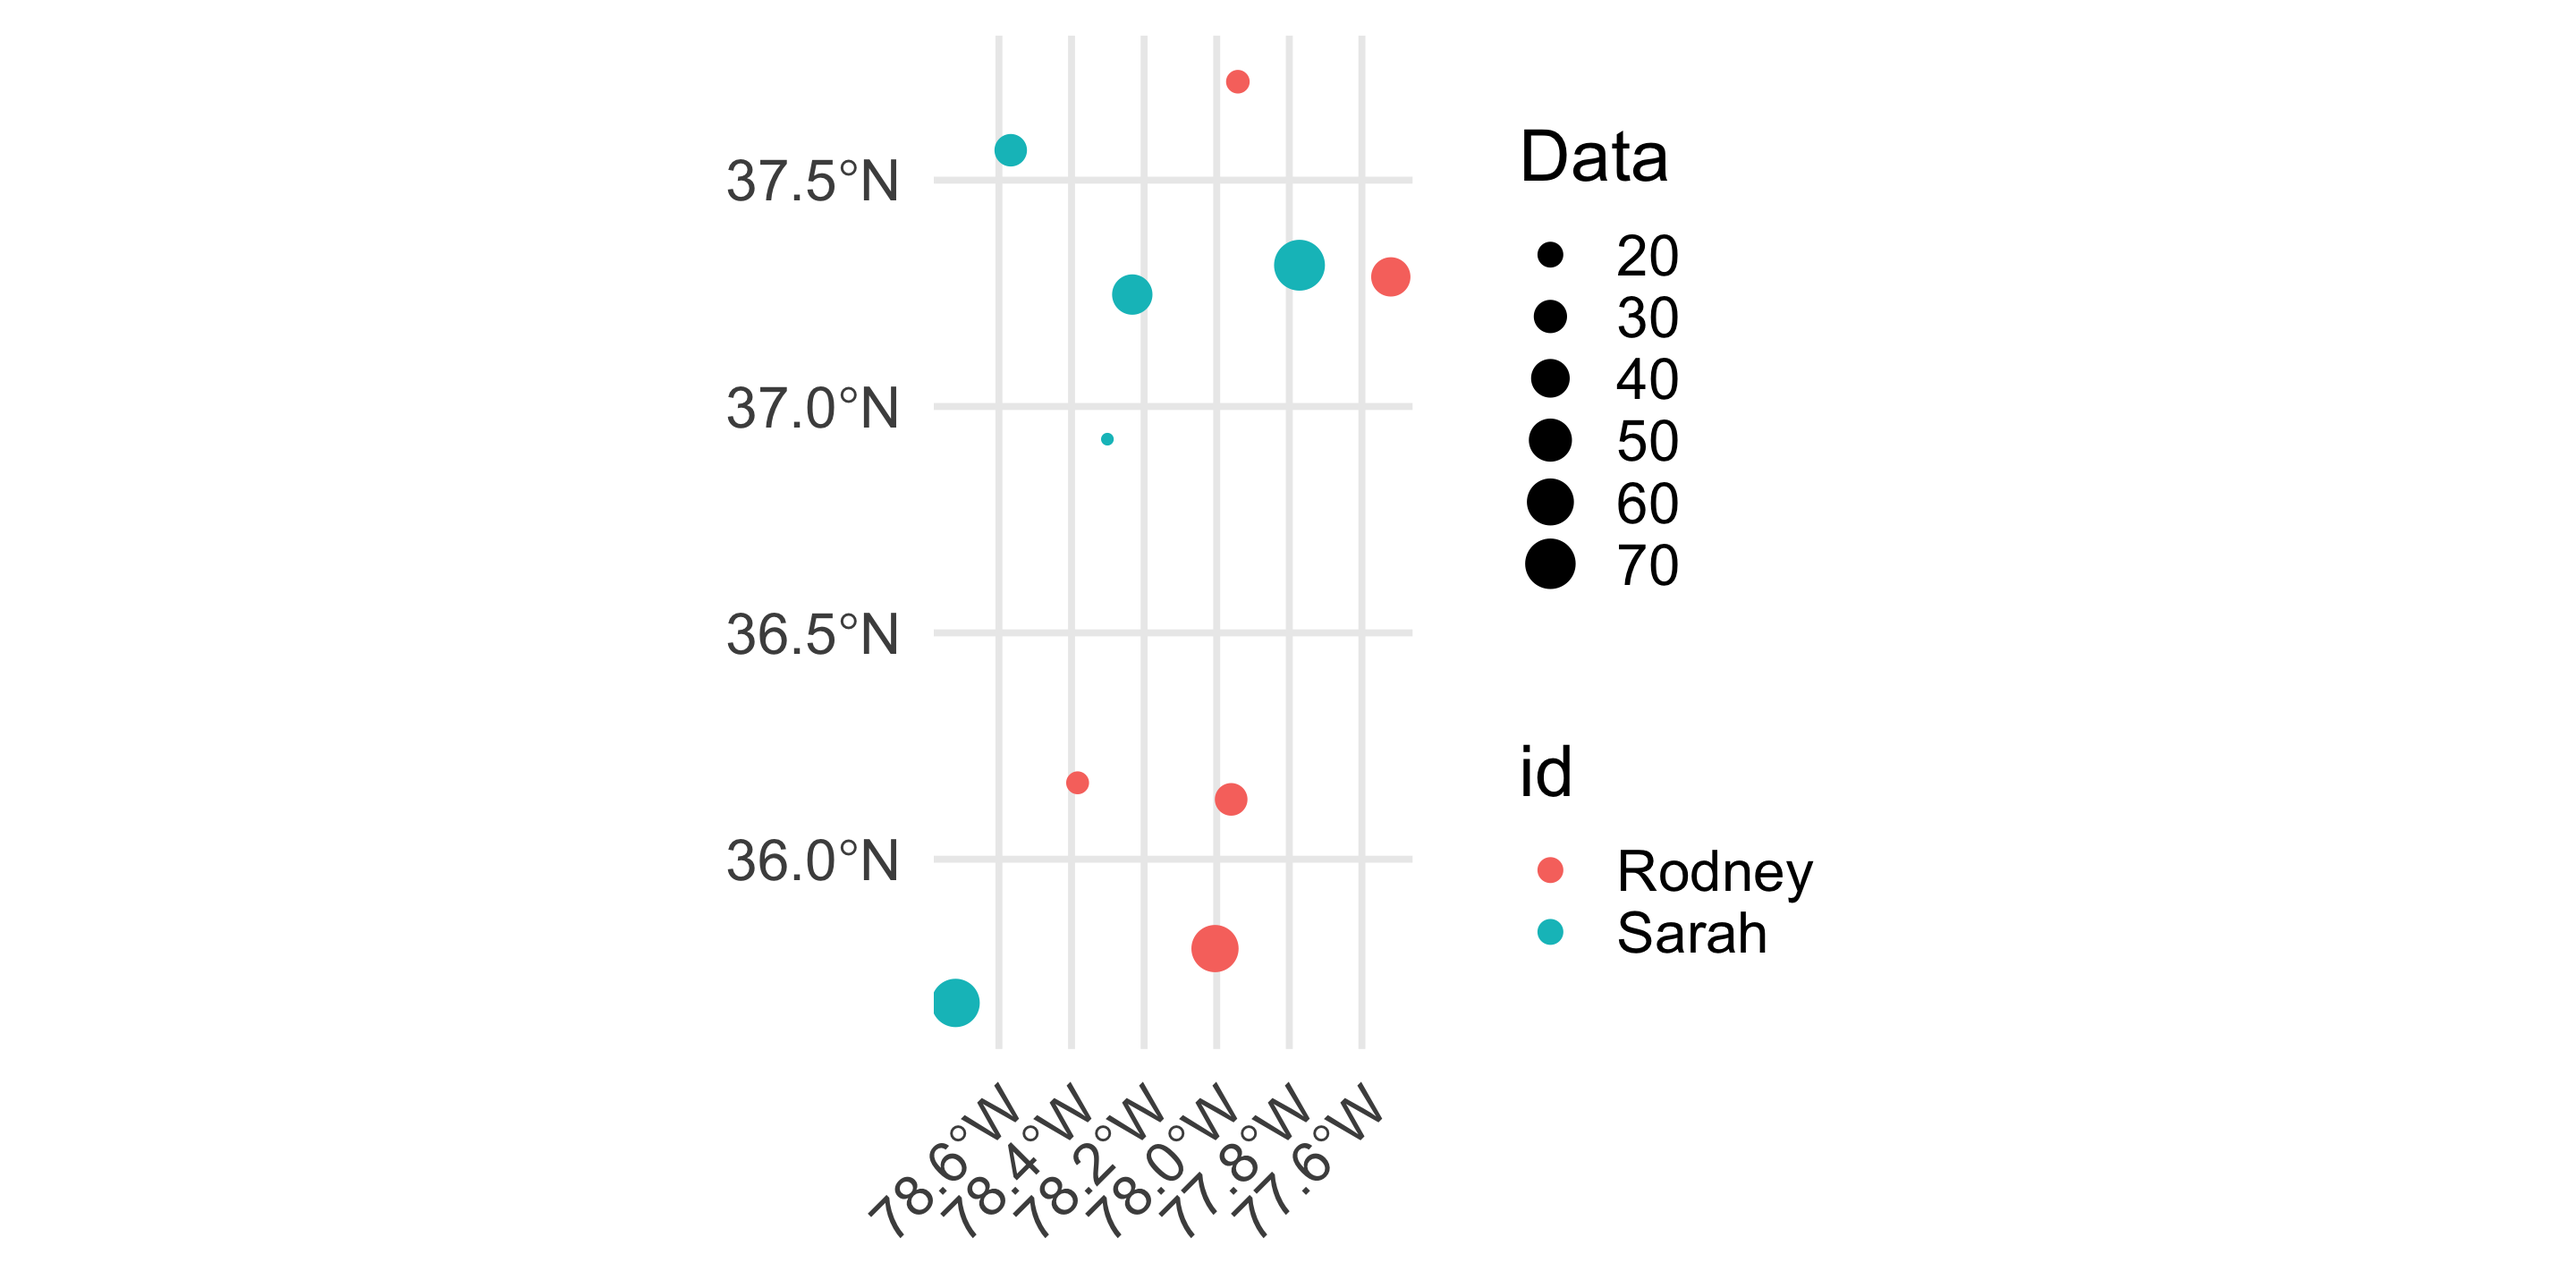
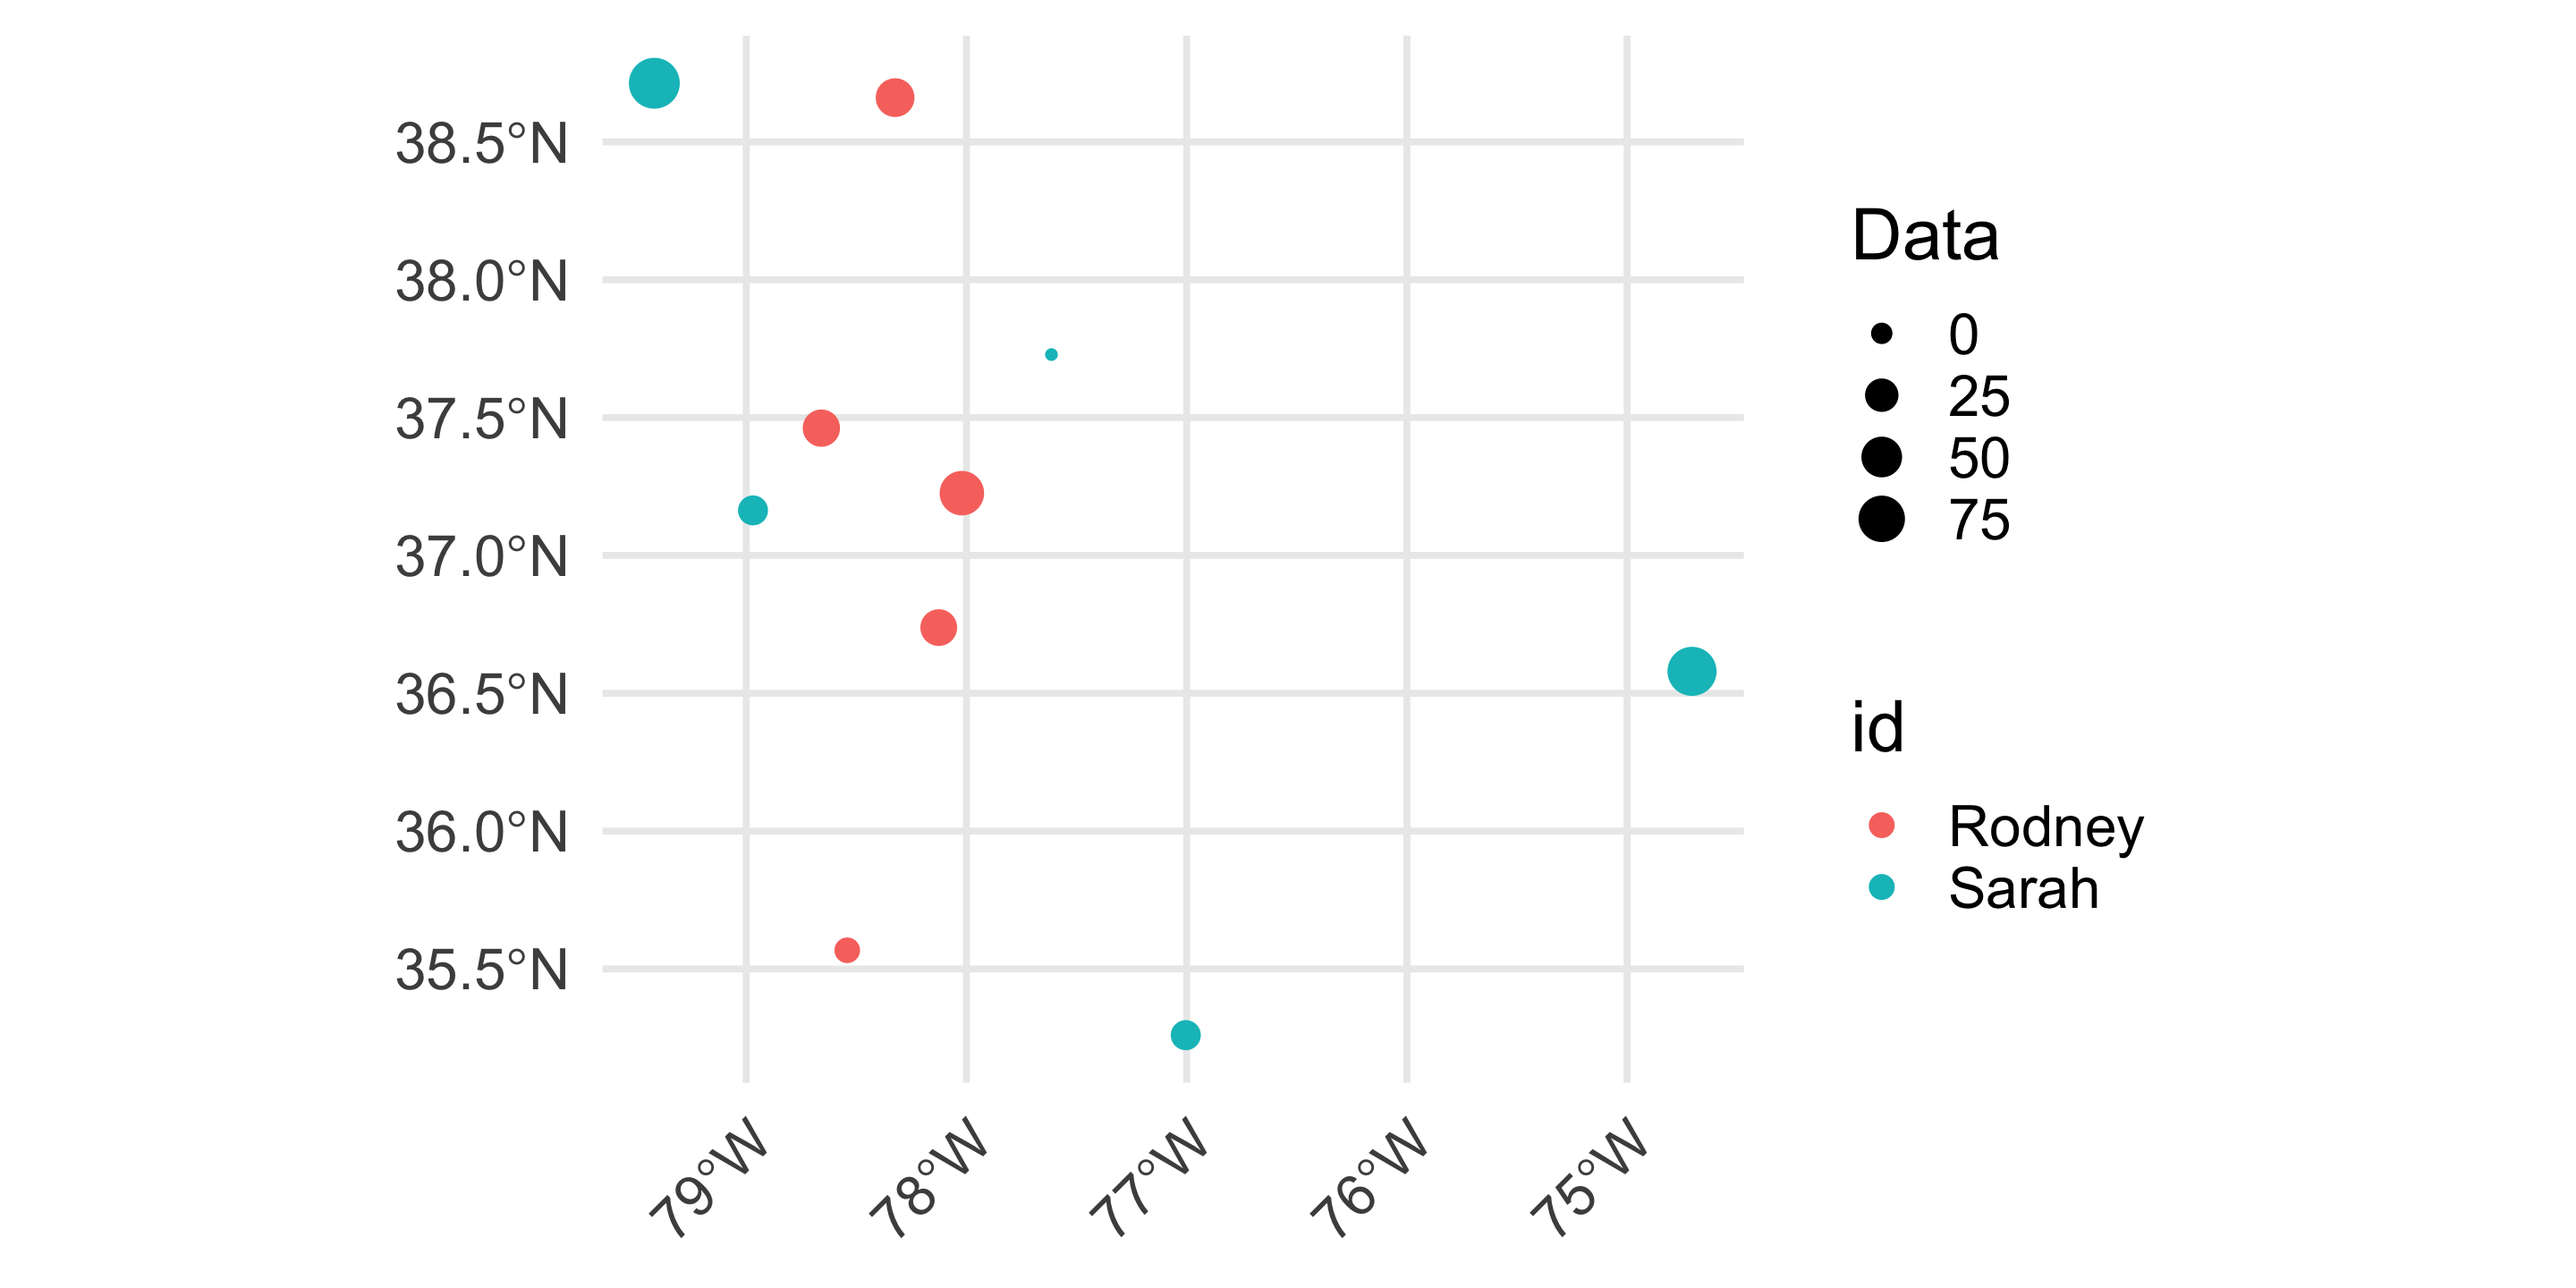
built for latest content

diff --git a/docs/slides.html b/docs/slides.html
@@ -233,17 +233,17 @@ Rodney Dyer, PhD
 <span id="cb1-4"><a href=""></a>                  <span class="at">Latitude =</span> <span class="fu">rnorm</span>(<span class="dv">10</span>, <span class="dv">37</span>, <span class="dv">1</span>) )</span>
 <span id="cb1-5"><a href=""></a>df</span></code></pre></div><button title="Copy to Clipboard" class="code-copy-button"><i class="bi"></i></button></div>
 <div class="cell-output cell-output-stdout">
-<pre><code>       id     Data Longitude Latitude
-1  Rodney 17.87809 -77.94175 37.71744
-2  Rodney 60.55095 -78.00474 35.80259
-3  Rodney 17.27645 -78.38327 36.16878
-4  Rodney 28.96443 -77.96019 36.13216
-5  Rodney 41.29949 -77.52040 37.28631
-6   Sarah 13.13965 -78.30119 36.92782
-7   Sarah 28.75033 -78.56750 37.56608
-8   Sarah 71.15773 -77.77191 37.31207
-9   Sarah 63.79510 -78.71947 35.68253
-10  Sarah 43.64018 -78.23262 37.24728</code></pre>
+<pre><code>       id      Data Longitude Latitude
+1  Rodney 65.864192 -78.02083 37.22583
+2  Rodney 35.372591 -78.12584 36.73815
+3  Rodney 37.410083 -78.65888 37.46175
+4  Rodney  6.427304 -78.54139 35.56769
+5  Rodney 42.496058 -78.32399 38.66054
+6   Sarah 15.911670 -77.00403 35.25983
+7   Sarah -5.314767 -77.61399 37.72853
+8   Sarah 15.662531 -78.96931 37.16336
+9   Sarah 88.073052 -74.70521 36.57952
+10  Sarah 97.522167 -79.41733 38.71270</code></pre>
 </div>
 </div>
 </section>
@@ -258,19 +258,19 @@ Rodney Dyer, PhD
 <pre><code>Simple feature collection with 10 features and 2 fields
 Geometry type: POINT
 Dimension:     XY
-Bounding box:  xmin: -78.71947 ymin: 35.68253 xmax: -77.5204 ymax: 37.71744
+Bounding box:  xmin: -79.41733 ymin: 35.25983 xmax: -74.70521 ymax: 38.7127
 Geodetic CRS:  WGS 84
-       id     Data                   geometry
-1  Rodney 17.87809 POINT (-77.94175 37.71744)
-2  Rodney 60.55095 POINT (-78.00474 35.80259)
-3  Rodney 17.27645 POINT (-78.38327 36.16878)
-4  Rodney 28.96443 POINT (-77.96019 36.13216)
-5  Rodney 41.29949  POINT (-77.5204 37.28631)
-6   Sarah 13.13965 POINT (-78.30119 36.92782)
-7   Sarah 28.75033  POINT (-78.5675 37.56608)
-8   Sarah 71.15773 POINT (-77.77191 37.31207)
-9   Sarah 63.79510 POINT (-78.71947 35.68253)
-10  Sarah 43.64018 POINT (-78.23262 37.24728)</code></pre>
+       id      Data                   geometry
+1  Rodney 65.864192 POINT (-78.02083 37.22583)
+2  Rodney 35.372591 POINT (-78.12584 36.73815)
+3  Rodney 37.410083 POINT (-78.65888 37.46175)
+4  Rodney  6.427304 POINT (-78.54139 35.56769)
+5  Rodney 42.496058 POINT (-78.32399 38.66054)
+6   Sarah 15.911670 POINT (-77.00403 35.25983)
+7   Sarah -5.314767 POINT (-77.61399 37.72853)
+8   Sarah 15.662531 POINT (-78.96931 37.16336)
+9   Sarah 88.073052 POINT (-74.70521 36.57952)
+10  Sarah 97.522167  POINT (-79.41733 38.7127)</code></pre>
 </div>
 </div>
 </section>
@@ -321,13 +321,13 @@ Geodetic CRS:  WGS 84
 <pre><code>Simple feature collection with 2 features and 2 fields
 Geometry type: LINESTRING
 Dimension:     XY
-Bounding box:  xmin: -78.71947 ymin: 35.68253 xmax: -77.5204 ymax: 37.71744
+Bounding box:  xmin: -79.41733 ymin: 35.25983 xmax: -74.70521 ymax: 38.7127
 Geodetic CRS:  WGS 84
 # A tibble: 2 × 3
   id      Data                                                          geometry
   &lt;chr&gt;  &lt;dbl&gt;                                                  &lt;LINESTRING [°]&gt;
-1 Rodney  33.2 (-78.00474 35.80259, -78.38327 36.16878, -77.96019 36.13216, -77…
-2 Sarah   44.1 (-78.71947 35.68253, -77.77191 37.31207, -78.23262 37.24728, -78…</code></pre>
+1 Rodney  37.5 (-78.54139 35.56769, -78.12584 36.73815, -78.02083 37.22583, -78…
+2 Sarah   42.4 (-79.41733 38.7127, -77.00403 35.25983, -77.61399 37.72853, -78.…</code></pre>
 </div>
 </div>
 </section>
@@ -362,7 +362,7 @@ Geodetic CRS:  WGS 84
 <div class="code-copy-outer-scaffold"><div class="sourceCode cell-code" id="cb10"><pre class="sourceCode numberSource r number-lines code-with-copy"><code class="sourceCode r"><span id="cb10-1"><a href=""></a><span class="fu">st_length</span>( lines )</span></code></pre></div><button title="Copy to Clipboard" class="code-copy-button"><i class="bi"></i></button></div>
 <div class="cell-output cell-output-stdout">
 <pre><code>Units: [m]
-[1] 286138.4 352230.7</code></pre>
+[1]  389107.9 1239484.3</code></pre>
 </div>
 </div>
 <div class="fragment">
@@ -371,7 +371,7 @@ Geodetic CRS:  WGS 84
 <div class="code-copy-outer-scaffold"><div class="sourceCode cell-code" id="cb12"><pre class="sourceCode numberSource r number-lines code-with-copy"><code class="sourceCode r"><span id="cb12-1"><a href=""></a><span class="fu">st_bbox</span>( lines )</span></code></pre></div><button title="Copy to Clipboard" class="code-copy-button"><i class="bi"></i></button></div>
 <div class="cell-output cell-output-stdout">
 <pre><code>     xmin      ymin      xmax      ymax 
--78.71947  35.68253 -77.52040  37.71744 </code></pre>
+-79.41733  35.25983 -74.70521  38.71270 </code></pre>
 </div>
 </div>
 <div class="fragment">
@@ -384,7 +384,7 @@ Geodetic CRS:  WGS 84
 <span id="cb14-5"><a href=""></a>  <span class="fu">st_area</span>() <span class="sc">%&gt;%</span></span>
 <span id="cb14-6"><a href=""></a>  <span class="fu">set_units</span>( km<span class="sc">^</span><span class="dv">2</span> )</span></code></pre></div><button title="Copy to Clipboard" class="code-copy-button"><i class="bi"></i></button></div>
 <div class="cell-output cell-output-stdout">
-<pre><code>16589.01 [km^2]</code></pre>
+<pre><code>88156.17 [km^2]</code></pre>
 </div>
 </div>
 </div>
@@ -396,7 +396,7 @@ Geodetic CRS:  WGS 84
 <div class="cell" data-layout-align="center">
 <div class="code-copy-outer-scaffold"><div class="sourceCode cell-code" id="cb16"><pre class="sourceCode numberSource r number-lines code-with-copy"><code class="sourceCode r"><span id="cb16-1"><a href=""></a>lines<span class="sc">$</span>geometry[<span class="dv">1</span>] <span class="sc">%&gt;%</span> <span class="fu">st_as_text</span>()</span></code></pre></div><button title="Copy to Clipboard" class="code-copy-button"><i class="bi"></i></button></div>
 <div class="cell-output cell-output-stdout">
-<pre><code>[1] "LINESTRING (-78.00474 35.80259, -78.38327 36.16878, -77.96019 36.13216, -77.5204 37.28631, -77.94175 37.71744)"</code></pre>
+<pre><code>[1] "LINESTRING (-78.54139 35.56769, -78.12584 36.73815, -78.02083 37.22583, -78.65888 37.46175, -78.32399 38.66054)"</code></pre>
 </div>
 </div>
 </section></section>
@@ -412,19 +412,19 @@ Geodetic CRS:  WGS 84
 <div class="code-copy-outer-scaffold"><div class="sourceCode cell-code" id="cb18"><pre class="sourceCode numberSource r number-lines code-with-copy"><code class="sourceCode r"><span id="cb18-1"><a href=""></a>df.p <span class="ot">&lt;-</span> df[ <span class="fu">c</span>(<span class="dv">1</span><span class="sc">:</span><span class="dv">5</span>,<span class="dv">1</span>, <span class="dv">6</span><span class="sc">:</span><span class="dv">10</span>,<span class="dv">6</span>),]</span>
 <span id="cb18-2"><a href=""></a>df.p</span></code></pre></div><button title="Copy to Clipboard" class="code-copy-button"><i class="bi"></i></button></div>
 <div class="cell-output cell-output-stdout">
-<pre><code>        id     Data Longitude Latitude
-1   Rodney 17.87809 -77.94175 37.71744
-2   Rodney 60.55095 -78.00474 35.80259
-3   Rodney 17.27645 -78.38327 36.16878
-4   Rodney 28.96443 -77.96019 36.13216
-5   Rodney 41.29949 -77.52040 37.28631
-1.1 Rodney 17.87809 -77.94175 37.71744
-6    Sarah 13.13965 -78.30119 36.92782
-7    Sarah 28.75033 -78.56750 37.56608
-8    Sarah 71.15773 -77.77191 37.31207
-9    Sarah 63.79510 -78.71947 35.68253
-10   Sarah 43.64018 -78.23262 37.24728
-6.1  Sarah 13.13965 -78.30119 36.92782</code></pre>
+<pre><code>        id      Data Longitude Latitude
+1   Rodney 65.864192 -78.02083 37.22583
+2   Rodney 35.372591 -78.12584 36.73815
+3   Rodney 37.410083 -78.65888 37.46175
+4   Rodney  6.427304 -78.54139 35.56769
+5   Rodney 42.496058 -78.32399 38.66054
+1.1 Rodney 65.864192 -78.02083 37.22583
+6    Sarah 15.911670 -77.00403 35.25983
+7    Sarah -5.314767 -77.61399 37.72853
+8    Sarah 15.662531 -78.96931 37.16336
+9    Sarah 88.073052 -74.70521 36.57952
+10   Sarah 97.522167 -79.41733 38.71270
+6.1  Sarah 15.911670 -77.00403 35.25983</code></pre>
 </div>
 </div>
 </section>
@@ -446,13 +446,13 @@ Geodetic CRS:  WGS 84
 <pre><code>Simple feature collection with 2 features and 2 fields
 Geometry type: POLYGON
 Dimension:     XY
-Bounding box:  xmin: -78.71947 ymin: 35.68253 xmax: -77.5204 ymax: 37.71744
+Bounding box:  xmin: -79.41733 ymin: 35.25983 xmax: -74.70521 ymax: 38.7127
 Geodetic CRS:  WGS 84
 # A tibble: 2 × 3
   id      Data                                                          geometry
   &lt;chr&gt;  &lt;dbl&gt;                                                     &lt;POLYGON [°]&gt;
-1 Rodney  33.2 ((-78.00474 35.80259, -78.38327 36.16878, -77.96019 36.13216, -7…
-2 Sarah   44.1 ((-78.71947 35.68253, -77.77191 37.31207, -78.23262 37.24728, -7…</code></pre>
+1 Rodney  37.5 ((-78.54139 35.56769, -78.12584 36.73815, -78.02083 37.22583, -7…
+2 Sarah   42.4 ((-79.41733 38.7127, -77.00403 35.25983, -77.61399 37.72853, -78…</code></pre>
 </div>
 </div>
 </section>
@@ -590,7 +590,7 @@ Geodetic CRS:  WGS 84
 <div class="code-copy-outer-scaffold"><div class="sourceCode cell-code" id="cb33"><pre class="sourceCode numberSource r number-lines code-with-copy"><code class="sourceCode r"><span id="cb33-1"><a href=""></a><span class="fu">st_read</span>( <span class="fu">file.path</span>( shp_dir, <span class="st">"Zoning_Districts.shp"</span> ) ) <span class="ot">-&gt;</span> districts </span></code></pre></div><button title="Copy to Clipboard" class="code-copy-button"><i class="bi"></i></button></div>
 <div class="cell-output cell-output-stdout">
 <pre><code>Reading layer `Zoning_Districts' from data source 
-  `/private/var/folders/57/_81c61111l10c9c_pt_bb7y80000gn/T/RtmpFPdKzz/Zoning_Districts.shp' 
+  `/private/var/folders/57/_81c61111l10c9c_pt_bb7y80000gn/T/RtmpqVIecY/Zoning_Districts.shp' 
   using driver `ESRI Shapefile'
 Simple feature collection with 634 features and 14 fields
 Geometry type: MULTIPOLYGON
@@ -708,7 +708,7 @@ Projected CRS: NAD83 / Virginia South (ftUS)
 <div class="code-copy-outer-scaffold"><div class="sourceCode cell-code" id="cb45"><pre class="sourceCode numberSource r number-lines code-with-copy"><code class="sourceCode r"><span id="cb45-1"><a href=""></a>road.shapefile <span class="ot">&lt;-</span> <span class="fu">st_read</span>( <span class="fu">file.path</span>( shp_dir, <span class="st">"Centerlines-shp/tran_Carriageway.shp"</span> ) )</span></code></pre></div><button title="Copy to Clipboard" class="code-copy-button"><i class="bi"></i></button></div>
 <div class="cell-output cell-output-stdout">
 <pre><code>Reading layer `tran_Carriageway' from data source 
-  `/private/var/folders/57/_81c61111l10c9c_pt_bb7y80000gn/T/RtmpFPdKzz/Centerlines-shp/tran_Carriageway.shp' 
+  `/private/var/folders/57/_81c61111l10c9c_pt_bb7y80000gn/T/RtmpqVIecY/Centerlines-shp/tran_Carriageway.shp' 
   using driver `ESRI Shapefile'
 Simple feature collection with 29081 features and 25 fields
 Geometry type: LINESTRING

diff --git a/docs/narrative.html b/docs/narrative.html
@@ -165,7 +165,7 @@ pre > code.sourceCode > span > a:first-child::before { text-decoration: underlin
 <div class="code-copy-outer-scaffold"><div class="sourceCode cell-code" id="cb9"><pre class="sourceCode r code-with-copy"><code class="sourceCode r"><span id="cb9-1"><a href="#cb9-1" aria-hidden="true" tabindex="-1"></a>roads <span class="ot">&lt;-</span> <span class="fu">st_read</span>( <span class="fu">file.path</span>( shp_dir, <span class="st">"Centerlines-shp/tran_Carriageway.shp"</span> ) )</span></code></pre></div><button title="Copy to Clipboard" class="code-copy-button"><i class="bi"></i></button></div>
 <div class="cell-output cell-output-stdout">
 <pre><code>Reading layer `tran_Carriageway' from data source 
-  `/private/var/folders/57/_81c61111l10c9c_pt_bb7y80000gn/T/RtmpsmGw9L/Centerlines-shp/tran_Carriageway.shp' 
+  `/private/var/folders/57/_81c61111l10c9c_pt_bb7y80000gn/T/RtmpoAazWo/Centerlines-shp/tran_Carriageway.shp' 
   using driver `ESRI Shapefile'
 Simple feature collection with 29081 features and 25 fields
 Geometry type: LINESTRING
@@ -458,7 +458,7 @@ Attaching package: 'maps'</code></pre>
 <div class="code-copy-outer-scaffold"><div class="sourceCode cell-code" id="cb32"><pre class="sourceCode r code-with-copy"><code class="sourceCode r"><span id="cb32-1"><a href="#cb32-1" aria-hidden="true" tabindex="-1"></a>districts <span class="ot">&lt;-</span> <span class="fu">st_read</span>( <span class="fu">file.path</span>( shp_dir, <span class="st">"Zoning_Districts.shp"</span> ) )</span></code></pre></div><button title="Copy to Clipboard" class="code-copy-button"><i class="bi"></i></button></div>
 <div class="cell-output cell-output-stdout">
 <pre><code>Reading layer `Zoning_Districts' from data source 
-  `/private/var/folders/57/_81c61111l10c9c_pt_bb7y80000gn/T/RtmpsmGw9L/Zoning_Districts.shp' 
+  `/private/var/folders/57/_81c61111l10c9c_pt_bb7y80000gn/T/RtmpoAazWo/Zoning_Districts.shp' 
   using driver `ESRI Shapefile'
 Simple feature collection with 634 features and 14 fields
 Geometry type: MULTIPOLYGON
@@ -815,7 +815,7 @@ dplyr 1.1.0.
 
 <ol>
 <li id="fn1"><p><strong>Dyer’s First Law</strong>: Reproject then forget about it!<a href="#fnref1" class="footnote-back" role="doc-backlink">↩</a></p></li>
-<li id="fn2"><p>You should be careful when you use joins on <code>sf</code> objects. If your <code>sf</code> object is on the right side (see discussion of joins <a href="https://dyerlab.github.io/ENVS-Lectures/manipulation/relational_data/slides.html#5">here</a>) then the result will not be an <code>sf</code> object and you’ll have to coerce it back into one again. It always adopts the characteristics of the left object.<a href="#fnref2" class="footnote-back" role="doc-backlink">↩</a></p></li>
+<li id="fn2"><p>You should be careful when you use joins on <code>sf</code> objects. If your <code>sf</code> object is on the right side (see discussion of joins <a href="https://dyerlabteaching.github.io/Joins/narrative.html">here</a>) then the result will not be an <code>sf</code> object and you’ll have to coerce it back into one again. It always adopts the characteristics of the left object.<a href="#fnref2" class="footnote-back" role="doc-backlink">↩</a></p></li>
 </ol>
 </section></div></main>
 <!-- /main column -->
